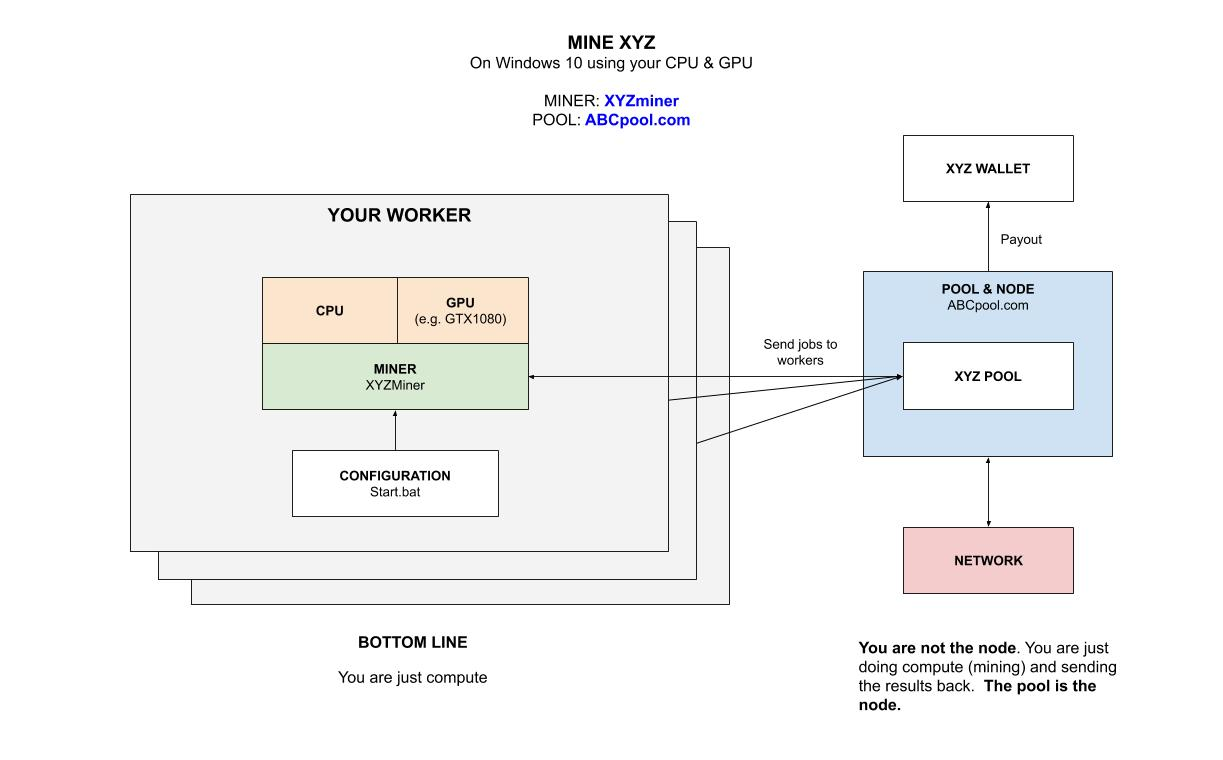
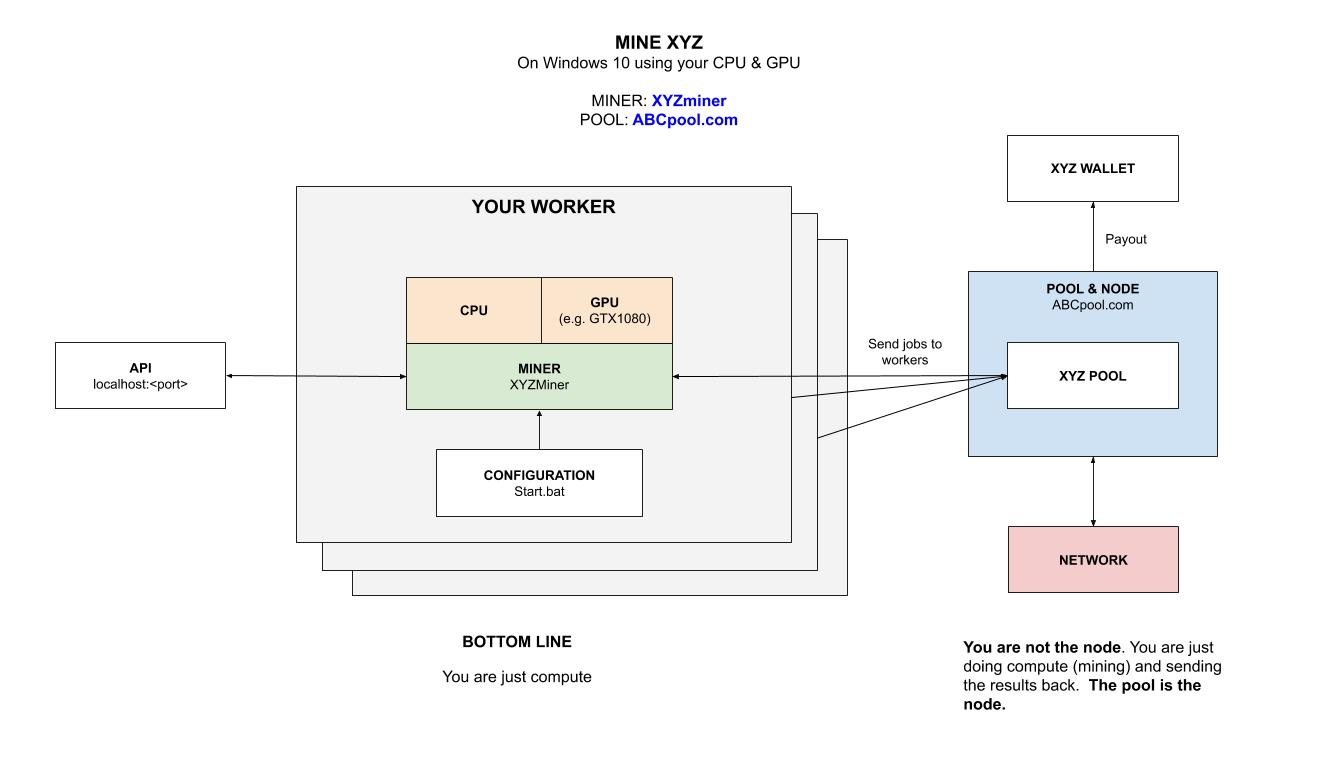
update mining

diff --git a/other/mining-cryptocurrency/pools/mine-BEAM-windows-gpu-lolMiner-cheat-sheet/README.md b/other/mining-cryptocurrency/pools/mine-BEAM-windows-gpu-lolMiner-cheat-sheet/README.md
@@ -23,6 +23,7 @@ Table of Contents,
 * [OVERVIEW](https://github.com/JeffDeCola/my-cheat-sheets/tree/master/other/mining-cryptocurrency/pools/mine-BEAM-windows-gpu-lolMiner-cheat-sheet#overview)
 * [MINER](https://github.com/JeffDeCola/my-cheat-sheets/tree/master/other/mining-cryptocurrency/pools/mine-BEAM-windows-gpu-lolMiner-cheat-sheet#miner)
 * [RUN](https://github.com/JeffDeCola/my-cheat-sheets/tree/master/other/mining-cryptocurrency/pools/mine-BEAM-windows-gpu-lolMiner-cheat-sheet#run)
+* [MONITOR](https://github.com/JeffDeCola/my-cheat-sheets/tree/master/other/mining-cryptocurrency/pools/mine-BEAM-windows-gpu-lolMiner-cheat-sheet#monitor)
 
 Check out my cheat sheet on all the popular
 [cryptocurrency](https://github.com/JeffDeCola/my-cheat-sheets/tree/master/other/mining-cryptocurrency/cryptocurrency/cryptocurrency-cheat-sheet).
@@ -59,6 +60,7 @@ lolMiner.exe
 --pool us-solo-beam.2miners.com
 --port 5454
 --user <WALLET>.<WORKER>
+--apiport 10051
 ```
 
 ### NORMAL POOL
@@ -69,5 +71,11 @@ To run on `2miners.com` normal pool just change the pool and port,
 --pool us-beam.2miners.com
 --port 5252
 ```
+
+## MONITOR
+
+Because you set the port above, you can monitor your miner,
+
+[http://localhost:10051/summary](http://localhost:10051/summary)
 
 Thats it, you're mining and wasting electricity.

diff --git a/other/mining-cryptocurrency/pools/mine-RVN-windows-gpu-t-rex-cheat-sheet/README.md b/other/mining-cryptocurrency/pools/mine-RVN-windows-gpu-t-rex-cheat-sheet/README.md
@@ -23,6 +23,7 @@ Table of Contents,
 * [OVERVIEW](https://github.com/JeffDeCola/my-cheat-sheets/tree/master/other/mining-cryptocurrency/pools/mine-RVN-windows-gpu-t-rex-cheat-sheet#overview)
 * [MINER](https://github.com/JeffDeCola/my-cheat-sheets/tree/master/other/mining-cryptocurrency/pools/mine-RVN-windows-gpu-t-rex-cheat-sheet#miner)
 * [RUN](https://github.com/JeffDeCola/my-cheat-sheets/tree/master/other/mining-cryptocurrency/pools/mine-RVN-windows-gpu-t-rex-cheat-sheet#run)
+* [MONITOR](https://github.com/JeffDeCola/my-cheat-sheets/tree/master/other/mining-cryptocurrency/pools/mine-RVN-windows-gpu-t-rex-cheat-sheet#monitor)
 
 Check out my cheat sheet on all the popular
 [cryptocurrency](https://github.com/JeffDeCola/my-cheat-sheets/tree/master/other/mining-cryptocurrency/cryptocurrency/cryptocurrency-cheat-sheet).
@@ -64,10 +65,10 @@ To run on `2miners.com` normal pool just change the pool and port,
 -o stratum+tcp://rvn.2miners.com:6060
 ```
 
-Thats it, you're mining and wasting electricity.
-
 ## MONITOR
 
-You can also monitor t-rex on your rig,
+You can also monitor `t-rex` on your rig,
 
 [http://10.141.141.1:4067/trex](http://10.141.141.1:4067/trex)
+
+Thats it, you're mining and wasting electricity.

diff --git a/other/mining-cryptocurrency/pools/mine-ZEC-windows-gpu-funakoshiMiner-cheat-sheet/README.md b/other/mining-cryptocurrency/pools/mine-ZEC-windows-gpu-funakoshiMiner-cheat-sheet/README.md
@@ -23,6 +23,7 @@ Table of Contents,
 * [OVERVIEW](https://github.com/JeffDeCola/my-cheat-sheets/tree/master/other/mining-cryptocurrency/pools/mine-ZEC-windows-gpu-funakoshiMiner-cheat-sheet#overview)
 * [MINER](https://github.com/JeffDeCola/my-cheat-sheets/tree/master/other/mining-cryptocurrency/pools/mine-ZEC-windows-gpu-funakoshiMiner-cheat-sheet#miner)
 * [RUN](https://github.com/JeffDeCola/my-cheat-sheets/tree/master/other/mining-cryptocurrency/pools/mine-ZEC-windows-gpu-funakoshiMiner-cheat-sheet#run)
+* [MONITOR](https://github.com/JeffDeCola/my-cheat-sheets/tree/master/other/mining-cryptocurrency/pools/mine-ZEC-windows-gpu-funakoshiMiner-cheat-sheet#monitor)
 
 Check out my cheat sheet on all the popular
 [cryptocurrency](https://github.com/JeffDeCola/my-cheat-sheets/tree/master/other/mining-cryptocurrency/cryptocurrency/cryptocurrency-cheat-sheet).
@@ -57,6 +58,13 @@ funakoshiMiner.exe \
 --server us-east.zec.slushpool.com \
 --port 4444 \
 --user <USER>.<WORKER>
+-tele-port 10052
 ```
+
+## MONITOR
+
+Because you set the port above, you can monitor your miner,
+
+[http://localhost:10052](http://localhost:10052)
 
 Thats it, you're mining and wasting electricity.

diff --git a/other/mining-cryptocurrency/pools/mine-ZCL-windows-gpu-lolMiner-cheat-sheet/README.md b/other/mining-cryptocurrency/pools/mine-ZCL-windows-gpu-lolMiner-cheat-sheet/README.md
@@ -23,6 +23,7 @@ Table of Contents,
 * [OVERVIEW](https://github.com/JeffDeCola/my-cheat-sheets/tree/master/other/mining-cryptocurrency/pools/mine-ZCL-windows-gpu-lolMiner-cheat-sheet#overview)
 * [MINER](https://github.com/JeffDeCola/my-cheat-sheets/tree/master/other/mining-cryptocurrency/pools/mine-ZCL-windows-gpu-lolMiner-cheat-sheet#miner)
 * [RUN](https://github.com/JeffDeCola/my-cheat-sheets/tree/master/other/mining-cryptocurrency/pools/mine-ZCL-windows-gpu-lolMiner-cheat-sheet#run)
+* [MONITOR](https://github.com/JeffDeCola/my-cheat-sheets/tree/master/other/mining-cryptocurrency/pools/mine-ZCL-windows-gpu-lolMiner-cheat-sheet#monitor)
 
 Check out my cheat sheet on all the popular
 [cryptocurrency](https://github.com/JeffDeCola/my-cheat-sheets/tree/master/other/mining-cryptocurrency/cryptocurrency/cryptocurrency-cheat-sheet).
@@ -57,6 +58,13 @@ lolMiner.exe
 --pool us-east.equihash-hub.miningpoolhub.com
 --port 20574
 --user <USER>.<WORKER>
+--apiport 10051
 ```
+
+## MONITOR
+
+Because you set the port above, you can monitor your miner,
+
+[http://localhost:10051/summary](http://localhost:10051/summary)
 
 Thats it, you're mining and wasting electricity.
